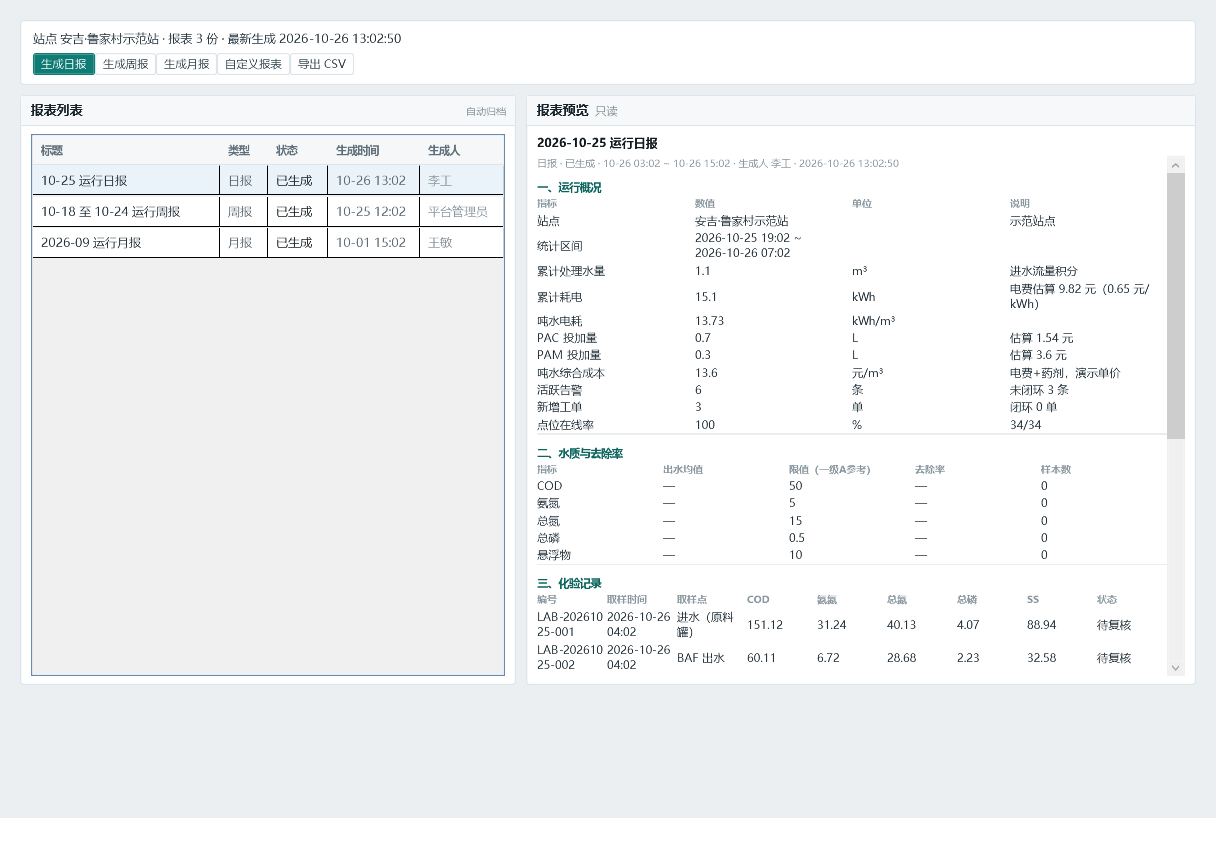
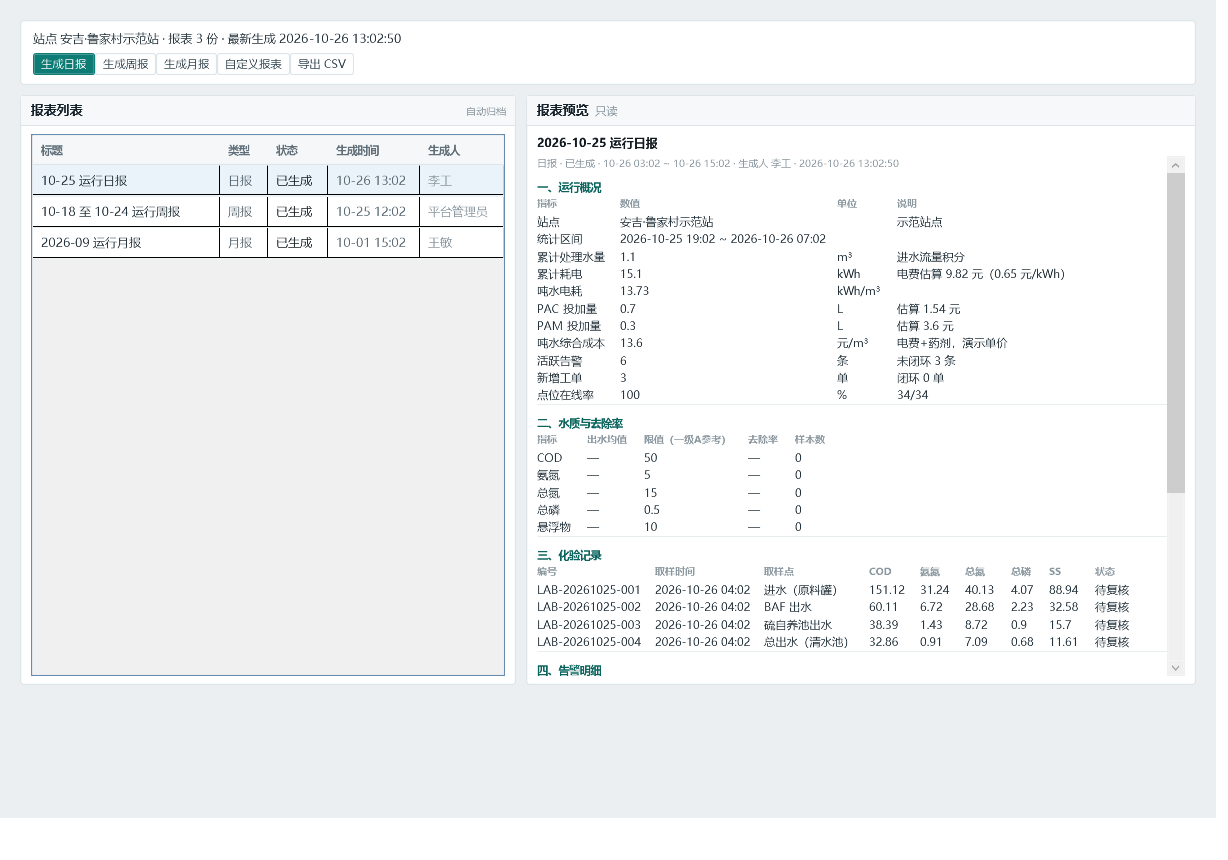
polish(desktop): 报表预览按内容分配列宽，化验记录不再折行

diff --git a/native/ZhifuWater.Desktop/Pages/ReportsPage.cs b/native/ZhifuWater.Desktop/Pages/ReportsPage.cs
@@ -4,6 +4,7 @@ using System.Text.RegularExpressions;
 using System.Windows;
 using System.Windows.Controls;
 using System.Windows.Controls.Primitives;
+using System.Windows.Media;
 using Microsoft.Win32;
 using ZhifuWater.Desktop.Data;
 using ZhifuWater.Desktop.Ui;
@@ -116,15 +117,36 @@ public sealed class ReportsPage : PageBase
             block.Children.Add(Kit.T(section.Title, 11, Pal.AccentStrong, bold: true));
             if (section.Columns.Count > 1 && section.Cells.Count > 0)
             {
-                var head = new UniformGrid { Columns = section.Columns.Count, Margin = new Thickness(0, 2, 0, 2) };
-                foreach (var col in section.Columns) head.Children.Add(Kit.T(col, 10, Pal.Muted2, bold: true));
-                block.Children.Add(head);
+                var count = section.Columns.Count;
+                var widths = new double[count];
+                for (var i = 0; i < count; i++) widths[i] = Kit.Measure(section.Columns[i], 10, true) + 16;
                 foreach (var cells in section.Cells)
                 {
-                    var line = new UniformGrid { Columns = section.Columns.Count, Margin = new Thickness(0, 1, 0, 1) };
-                    foreach (var cell in cells) line.Children.Add(Kit.T(cell, 11, Pal.Ink2, wrap: TextWrapping.Wrap));
-                    block.Children.Add(line);
+                    for (var i = 0; i < Math.Min(count, cells.Count); i++)
+                    {
+                        var need = Kit.Measure(cells[i], 11) + 16;
+                        if (need > widths[i]) widths[i] = need;
+                    }
                 }
+                const double total = 608;
+                var sum = widths.Sum();
+                if (sum < total)
+                {
+                    // 余量给最后一列（通常是说明列）
+                    widths[count - 1] += total - sum;
+                }
+                else
+                {
+                    for (var i = 0; i < count; i++)
+                    {
+                        var floor = i == 0 ? 108 : 56;
+                        widths[i] = Math.Max(floor, widths[i] * total / sum);
+                    }
+                }
+
+                block.Children.Add(ReportRow(section.Columns.ToArray(), widths, 10, Pal.Muted2, true, new Thickness(0, 2, 0, 3)));
+                foreach (var cells in section.Cells)
+                    block.Children.Add(ReportRow(cells.ToArray(), widths, 11, Pal.Ink2, false, new Thickness(0, 1, 0, 1)));
                 block.Children.Add(Kit.Divider(0, 0));
             }
             else
@@ -143,6 +165,21 @@ public sealed class ReportsPage : PageBase
             _preview.Children.Add(block);
         }
         if (r.Sections.Count == 0) _preview.Children.Add(Kit.T("该报表没有可展示的内容", 11, Pal.Muted));
+    }
+
+    private static Grid ReportRow(string[] cells, double[] widths, double size, Brush fg, bool bold, Thickness margin)
+    {
+        var line = new Grid { Margin = margin };
+        for (var i = 0; i < widths.Length; i++)
+        {
+            line.ColumnDefinitions.Add(new ColumnDefinition { Width = new GridLength(widths[i]) });
+            if (i >= cells.Length) continue;
+            var cell = Kit.T(cells[i], size, fg, bold, TextWrapping.Wrap);
+            cell.Margin = new Thickness(0, 0, 8, 0);
+            Grid.SetColumn(cell, i);
+            line.Children.Add(cell);
+        }
+        return line;
     }
 
     private static readonly Regex YearPrefix = new(@"\d{4}-", RegexOptions.Compiled);

diff --git a/native/ZhifuWater.Desktop/Ui/UiKit.cs b/native/ZhifuWater.Desktop/Ui/UiKit.cs
@@ -41,6 +41,17 @@ public static class Kit
     public static Brush Br(string key) => (Brush)Res[key];
     public static Style St(string key) => (Style)Res[key];
 
+    /// <summary>按单元格字号粗略估算文字宽度（不依赖已布局的 Visual），用于报表等动态列宽。</summary>
+    public static double Measure(string? text, double size, bool bold = false)
+    {
+        if (string.IsNullOrEmpty(text)) return 0;
+        var typeface = new Typeface(new FontFamily("Microsoft YaHei UI"), FontStyles.Normal,
+            bold ? FontWeights.SemiBold : FontWeights.Normal, FontStretches.Normal);
+        var formatted = new FormattedText(text, CultureInfo.CurrentUICulture, FlowDirection.LeftToRight,
+            typeface, size, Brushes.Black, 1.0);
+        return formatted.WidthIncludingTrailingWhitespace;
+    }
+
     public static TextBlock T(string text, double size = 13, Brush? fg = null, bool bold = false,
         TextWrapping wrap = TextWrapping.NoWrap, TextTrimming trim = TextTrimming.CharacterEllipsis)
     {
